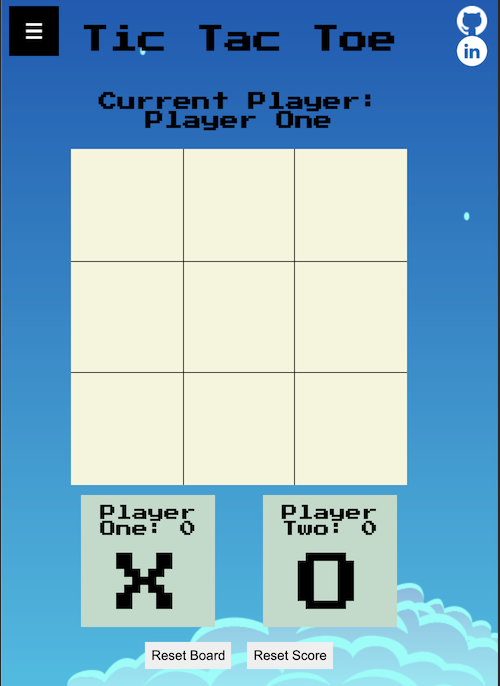
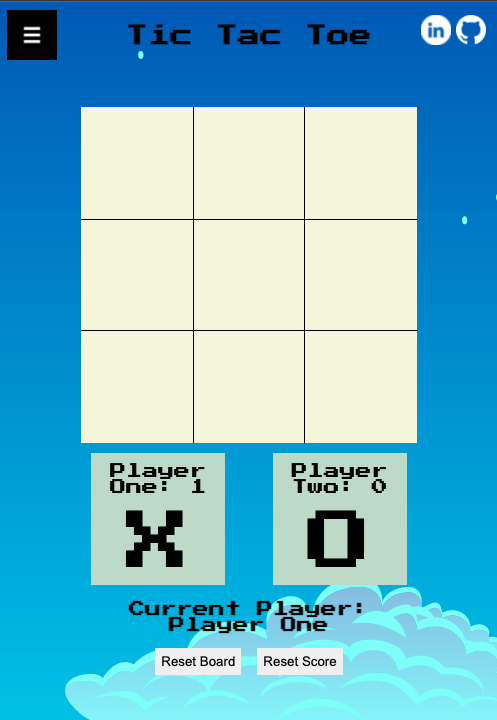
update mobile responsiveness

diff --git a/js/main.js b/js/main.js
@@ -33,7 +33,7 @@ const playerOneDiv = document.getElementById('player-one');
 const playerTwoDiv = document.getElementById('player-two');
 const modal = document.getElementById('popup-modal');
 
-function createBoxData(data) {
+function updateBoxData(data) {
     const para = document.createElement('p');
     const node = document.createTextNode(data);
     para.appendChild(node);
@@ -194,7 +194,7 @@ function updateBoardIconState(playerOneNewIcon, playerTwoNewIcon) {
                 replaceValue = playerTwoNewIcon;
             }
             boxes[index].textContent = '';
-            boxes[index].appendChild(createBoxData(replaceValue));
+            boxes[index].appendChild(updateBoxData(replaceValue));
         }
     }
 }
@@ -216,7 +216,7 @@ function setupListeners() {
                     let chosenIndex = Number(event.target.id.slice(-2));
                     let activePlayerToken = getActivePlayer().token;
                     currentGameState[chosenIndex - 1] = activePlayerToken;
-                    event.target.appendChild(createBoxData(activePlayerToken));
+                    event.target.appendChild(updateBoxData(activePlayerToken));
 
                     const boxes = document.querySelectorAll('.box');
                     if (checkEndWinningState(boxes, currentGameState)) {

diff --git a/css/style.css b/css/style.css
@@ -248,14 +248,14 @@ main {
         grid-column: 2 / span 1;
         grid-row: 1 / span 1;
         margin-left: auto;
-        margin-right: 0px;
+        margin-right: 10px;
         
     }
     
     #player-two {
         grid-column: 4 / span 1;
         grid-row: 1 / span 1;
-        margin-left: 0px;
+        margin-left: 10px;
         margin-right: auto;
     }
 
@@ -267,6 +267,12 @@ main {
     #button-nav {
         grid-column: 3 / span 1;
         grid-row: 3 / span 1;
+    }
+}
+
+@media screen and (max-width: 423px) {
+    h1 {
+        font-size: 1em;
     }
 }
 

diff --git a/README.md b/README.md
@@ -25,12 +25,12 @@ Assets:
 
 ## Planning
 ### Game Rules:
-* Players: 2 players (associated to 2 different token or colours)
+* Players: 2 players (associated to 2 different tokens/icons)
 * Player board: The player board is a 3 x 3 grid
 * Player turn:
     * The player chooses one of nine (unfilled) boxes to place their symbol in. Player turn then ends and the alternate player triggers player turn
-* End conditions: Either a player wins/ties OR there are no more empty squares available
-* Win condition: A player wins if they have 3 of their symbols in either a row - either horizontally, vertically or diagonally 
+* End conditions: Either a player wins OR there are no more empty squares available (tie/draw)
+* Win condition: A player wins if they have 3 of their symbols/tokens in either a row - either horizontally, vertically or diagonally 
 
 ### Basic UI Layout 
 - Initial Wireframe Design
